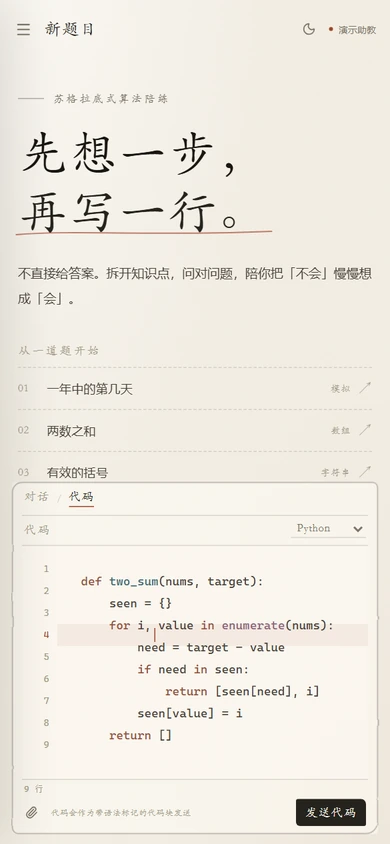
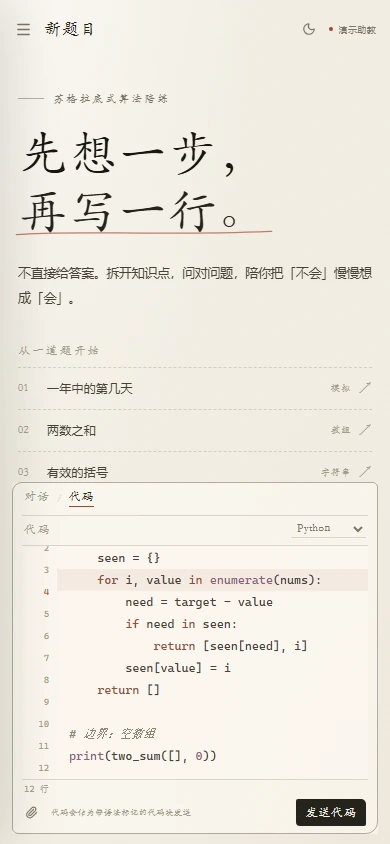
Fix code editor text and caret misalignment
- Prevent the Markdown highlight.js theme from adding padding and overflow to the editor overlay
- Scope chat textarea styles to chat mode so the code textarea keeps its full height and normal letter tracking
- Reset code/pre geometry and update editor screenshots
- Verify long-code vertical scroll and long-line horizontal scroll stay in sync

diff --git a/algo-tutor/src/styles.css b/algo-tutor/src/styles.css
@@ -2210,7 +2210,7 @@ button:focus:not(:focus-visible) {
   border-color: var(--ink-soft);
 }
 
-.composer textarea {
+.composer:not(.is-code-mode) textarea {
   position: relative;
   z-index: 1;
   display: block;
@@ -2229,11 +2229,11 @@ button:focus:not(:focus-visible) {
   overflow-y: auto;
 }
 
-.composer textarea::placeholder {
+.composer:not(.is-code-mode) textarea::placeholder {
   color: var(--faint);
 }
 
-.composer textarea:disabled {
+.composer:not(.is-code-mode) textarea:disabled {
   opacity: 0.7;
 }
 
@@ -3857,7 +3857,7 @@ button:focus:not(:focus-visible) {
     padding: 8px 10px 7px;
   }
 
-  .composer textarea {
+  .composer:not(.is-code-mode) textarea {
     font-size: 13px;
     padding: 2px 2px 3px;
   }
@@ -4443,18 +4443,25 @@ button:focus:not(:focus-visible) {
   font-family: var(--font-mono);
   font-size: 13px;
   font-weight: 400;
+  letter-spacing: normal;
   white-space: pre;
   tab-size: 2;
 }
 
 .code-highlight-scroll code {
+  display: block;
+  overflow: visible;
+  width: 100%;
   padding: 0;
   border: 0;
   background: transparent;
   color: inherit;
   font-family: inherit;
   font-size: inherit;
+  font-weight: inherit;
+  letter-spacing: inherit;
   line-height: inherit;
+  white-space: inherit;
 }
 
 .code-editor textarea {
@@ -4463,6 +4470,8 @@ button:focus:not(:focus-visible) {
   z-index: 3;
   width: 100%;
   height: 100%;
+  min-height: 0;
+  max-height: none;
   padding: 12px 16px;
   border: 0;
   outline: none;
@@ -4473,6 +4482,7 @@ button:focus:not(:focus-visible) {
   font-family: var(--font-mono);
   font-size: 13px;
   font-weight: 400;
+  letter-spacing: normal;
   line-height: 22px;
   white-space: pre;
   tab-size: 2;

diff --git a/algo-tutor/src/components/CodeEditor.tsx b/algo-tutor/src/components/CodeEditor.tsx
@@ -349,7 +349,9 @@ export function CodeEditor({
           />
           <div className="code-highlight-scroll" ref={highlightRef} aria-hidden="true">
             <pre style={{ padding: `${PADDING_Y}px 16px`, lineHeight: `${LINE_HEIGHT}px` }}>
-              <code ref={codeRef} className={`hljs language-${language}`} />
+              {/* 不挂 hljs 类：Markdown 主题会给 pre code.hljs 加 padding/overflow，
+                  与透明 textarea 的光标和行号错位。 */}
+              <code ref={codeRef} className={`language-${language}`} />
             </pre>
           </div>
           <textarea

diff --git a/algo-tutor/README.md b/algo-tutor/README.md
@@ -469,7 +469,7 @@ npm start
 - 多文件拖拽上传、文本 / 代码与图片混合发送、附件删除、超限拒绝、图片多模态请求转发均已验证；
 - 公网安全：内网 / 本机 / 云元数据地址拦截、https 强制、域名白名单、302 重定向阻断、按 IP 限流均已用本地 Mock 上游验证；
 - 首页「在线使用 · 自带 API Key」引导、设置页 Key 提示与服务商预设提示在 Chromium 1440×1000 下通过截图检查；
-- 代码编辑器验证了语法高亮、行号滚动同步、当前行高亮、Enter 自动缩进、Tab / Shift+Tab、括号与引号自动闭合、匹配括号高亮及代码直接发送；
+- 代码编辑器验证了语法高亮、行号滚动同步、当前行高亮、Enter 自动缩进、Tab / Shift+Tab、括号与引号自动闭合、匹配括号高亮及代码直接发送；同时修正了高亮层与透明输入层因 Markdown 代码主题 `padding` 泄漏导致的文本/光标错位，并验证了长代码纵向滚动与长行横向滚动同步；
 - 明暗主题切换、刷新持久化、深色模式下的设置、笔记与移动端编辑器均通过截图检查；
 - 停止生成保留半截内容并持久化；
 - `npm run typecheck` 与 `npm run build` 通过。
